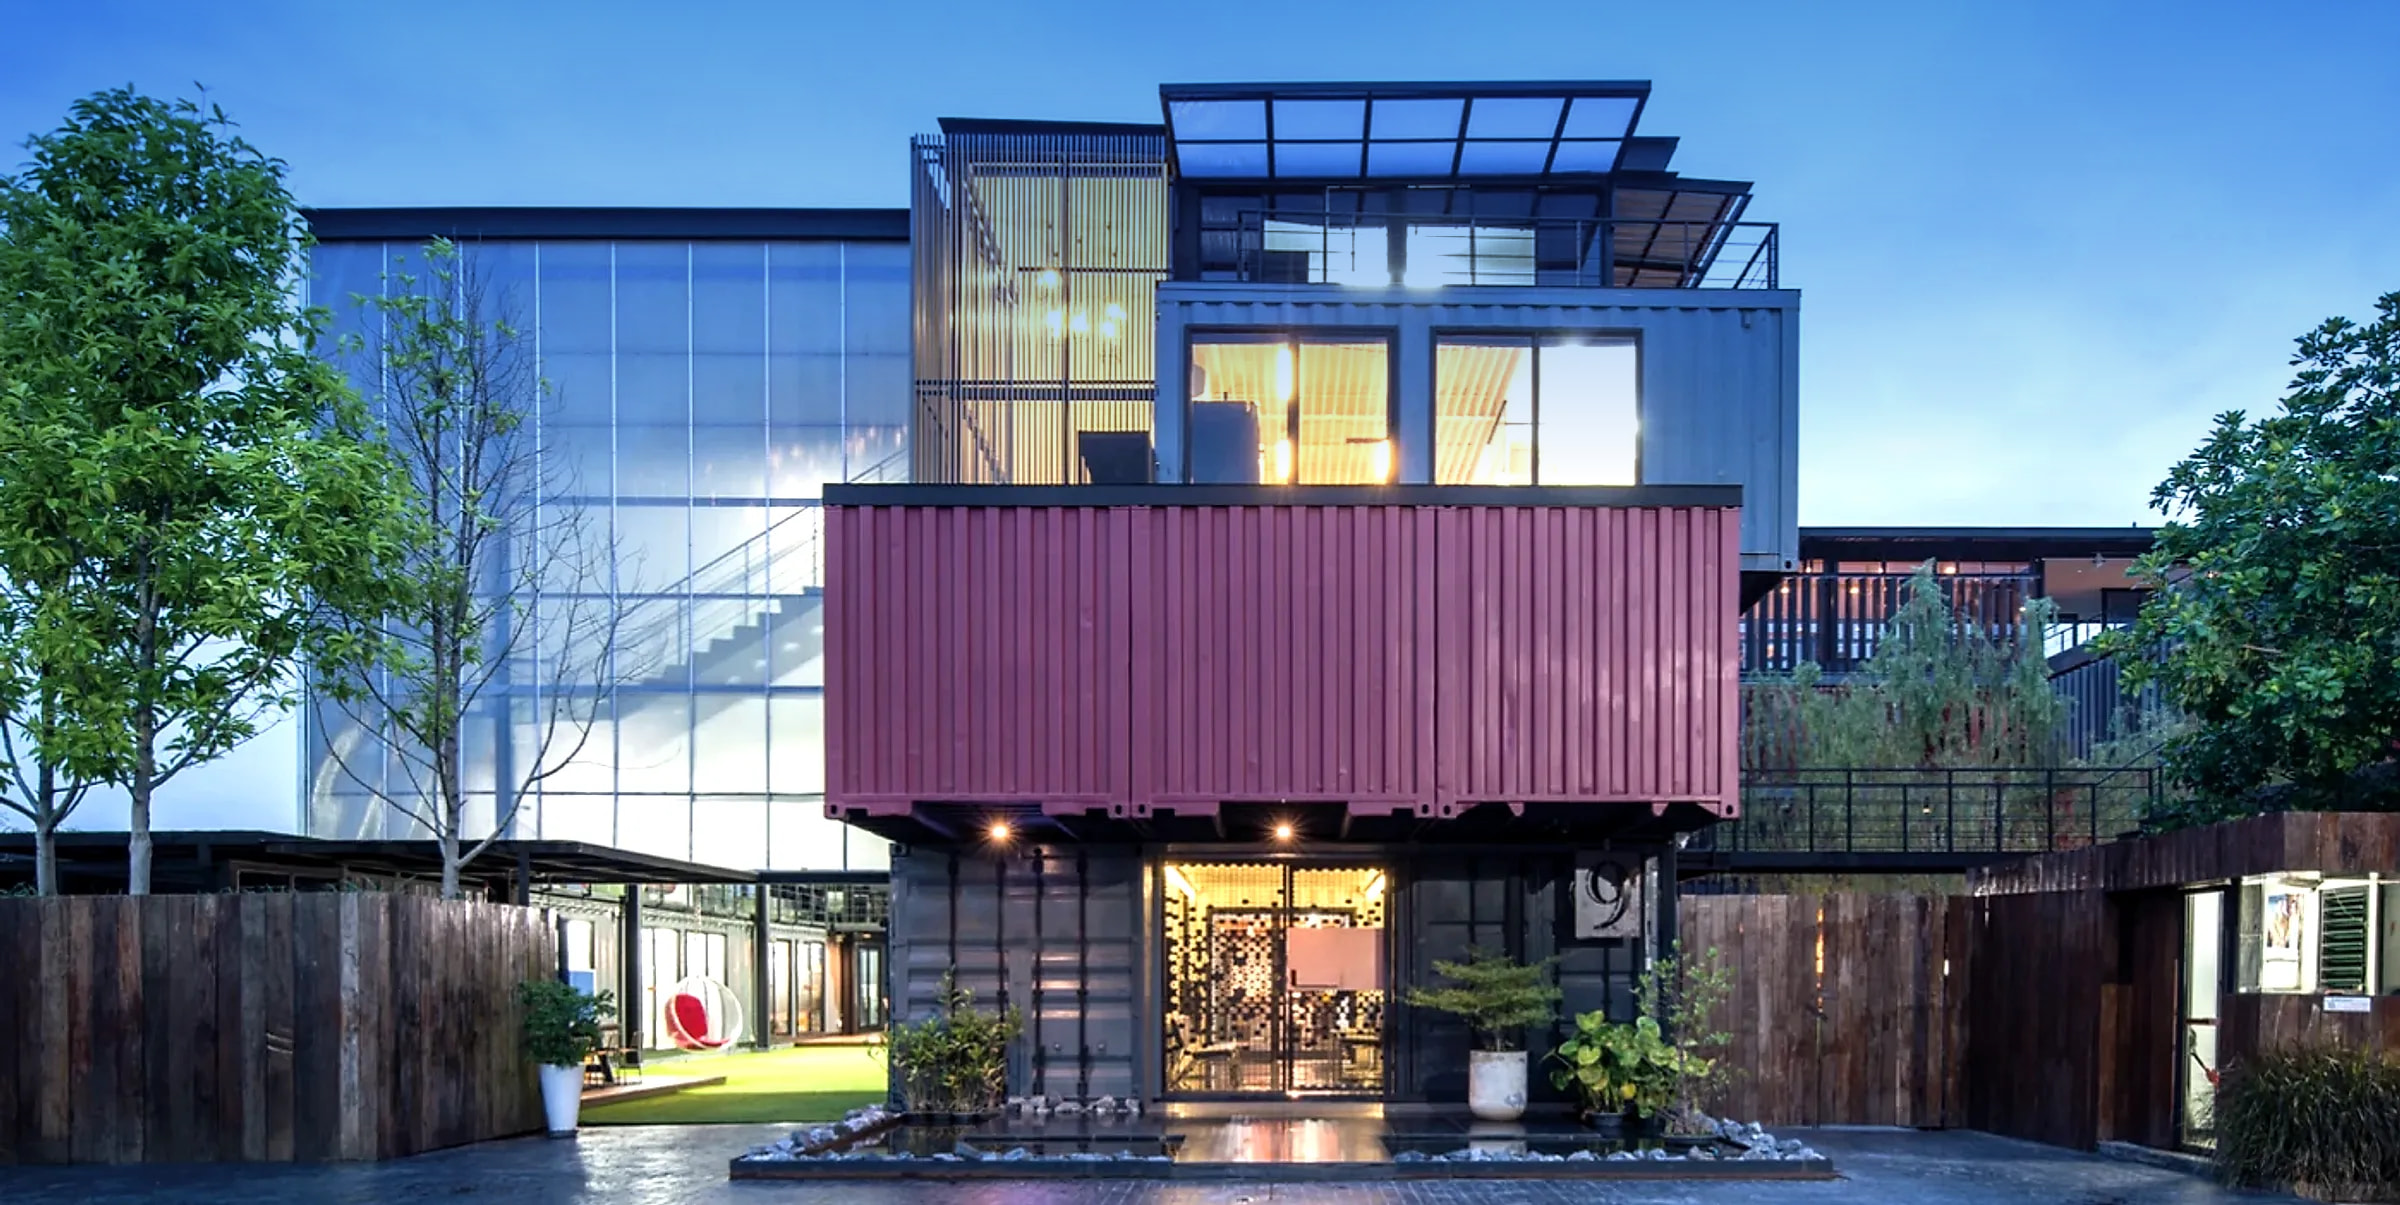
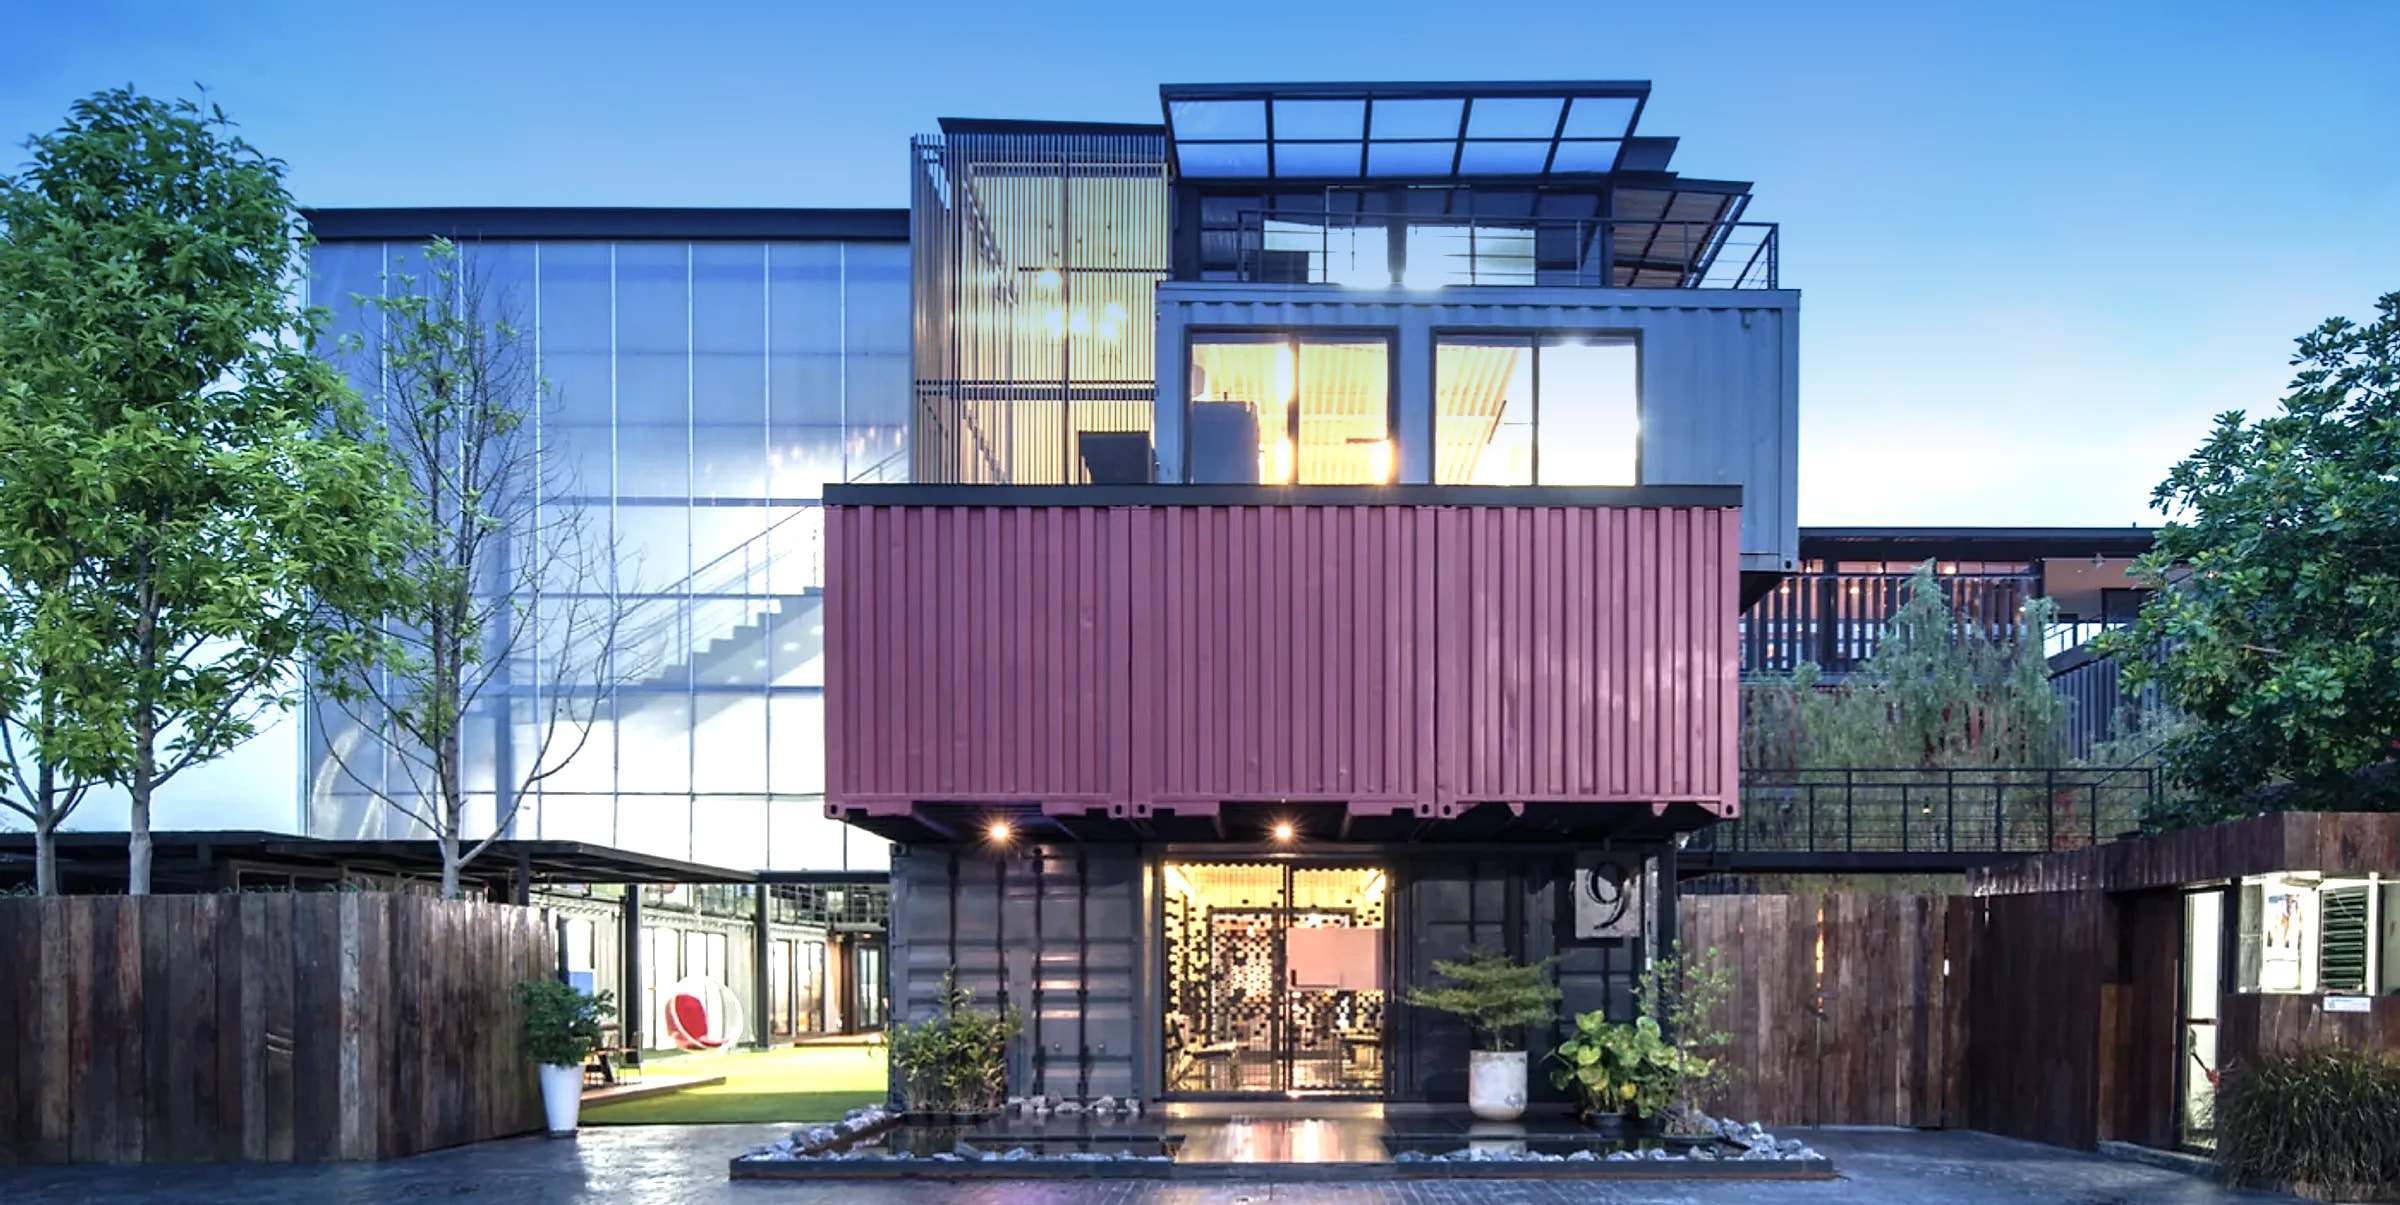
Login: previous header style, daylight background

diff --git a/src/styles.css b/src/styles.css
@@ -259,11 +259,11 @@ body.pdf-exporting .print-only { display: block !important; }
   min-height: 100vh; display: flex; flex-direction: column; align-items: center; padding: 7vh 16px 48px;
   /* light brand panel on top fading into the daytime photo of the ASSET WISE office */
   background:
-    linear-gradient(180deg, rgba(246, 248, 252, .55) 0%, rgba(246, 248, 252, 0) 30%),
+    linear-gradient(180deg, #f6f8fc 0%, rgba(246, 248, 252, .96) 20%, rgba(246, 248, 252, .55) 34%, rgba(246, 248, 252, 0) 48%),
     url('/login-building.jpg') center bottom / cover no-repeat, #dfe9f5;
 }
-.login-brand { text-align: center; margin-bottom: 22px; padding: 18px 36px 16px; border-radius: 20px; background: rgba(255, 255, 255, .82); box-shadow: 0 10px 30px rgba(17, 38, 70, .12); }
-.login-logo { display: block; width: 170px; max-width: 60vw; height: auto; margin: 0 auto; }
+.login-brand { text-align: center; margin-bottom: 28px; text-shadow: 0 0 12px rgba(255, 255, 255, .9), 0 0 2px rgba(255, 255, 255, .9); }
+.login-logo { display: block; width: 190px; max-width: 60vw; height: auto; margin: 0 auto; }
 .login-app { margin-top: 14px; font-size: 20px; font-weight: 600; color: var(--brand); letter-spacing: .02em; }
 .login-tagline { margin: 6px 0 0; color: var(--ink-2); font-size: 15px; }
 .login-tagline b { color: var(--brand); font-size: 17px; }

diff --git a/docs/CHANGELOG.md b/docs/CHANGELOG.md
@@ -45,3 +45,4 @@ _Append-only. Newest entries at the bottom._
 - ประวัติการฝึกอบรม › รายหลักสูตร: each row has **แก้ไข** and **ลบ**; course page has **ลบหลักสูตร**. Delete = soft delete (`deleted_at`, hidden from lists/reports, row + Audit Log kept, restorable); records from Historical Excel cannot be deleted (button disabled, message) but can be edited. Tested as admin in a rolled-back transaction: hidden from v_session_summary / v_participant_fact, row kept, audit row written.
 - Login: only e-mail + password (sign-up and forgot-password tabs removed — accounts and password resets are done by an Admin in Settings › ผู้ใช้งาน). Background photo re-made sharper (2400 px Lanczos upscale + sharpen, less wash, blue daytime sky); logo/tagline on a light panel instead of a white veil over the photo.
 - Browser tab icon = the ASSET WISE "W" (white on navy): `favicon.png` 64, `apple-touch-icon.png` 180, `icon-512.png`; old "A" favicon.svg removed. Monthly report header uses the ASSET WISE logo.
+- Login: brand header back to the earlier style (no panel around logo/text, light top fade with text glow); background re-graded to daylight (brighter exposure, open shadows, blue sky) while keeping the 2400 px sharpened version.
